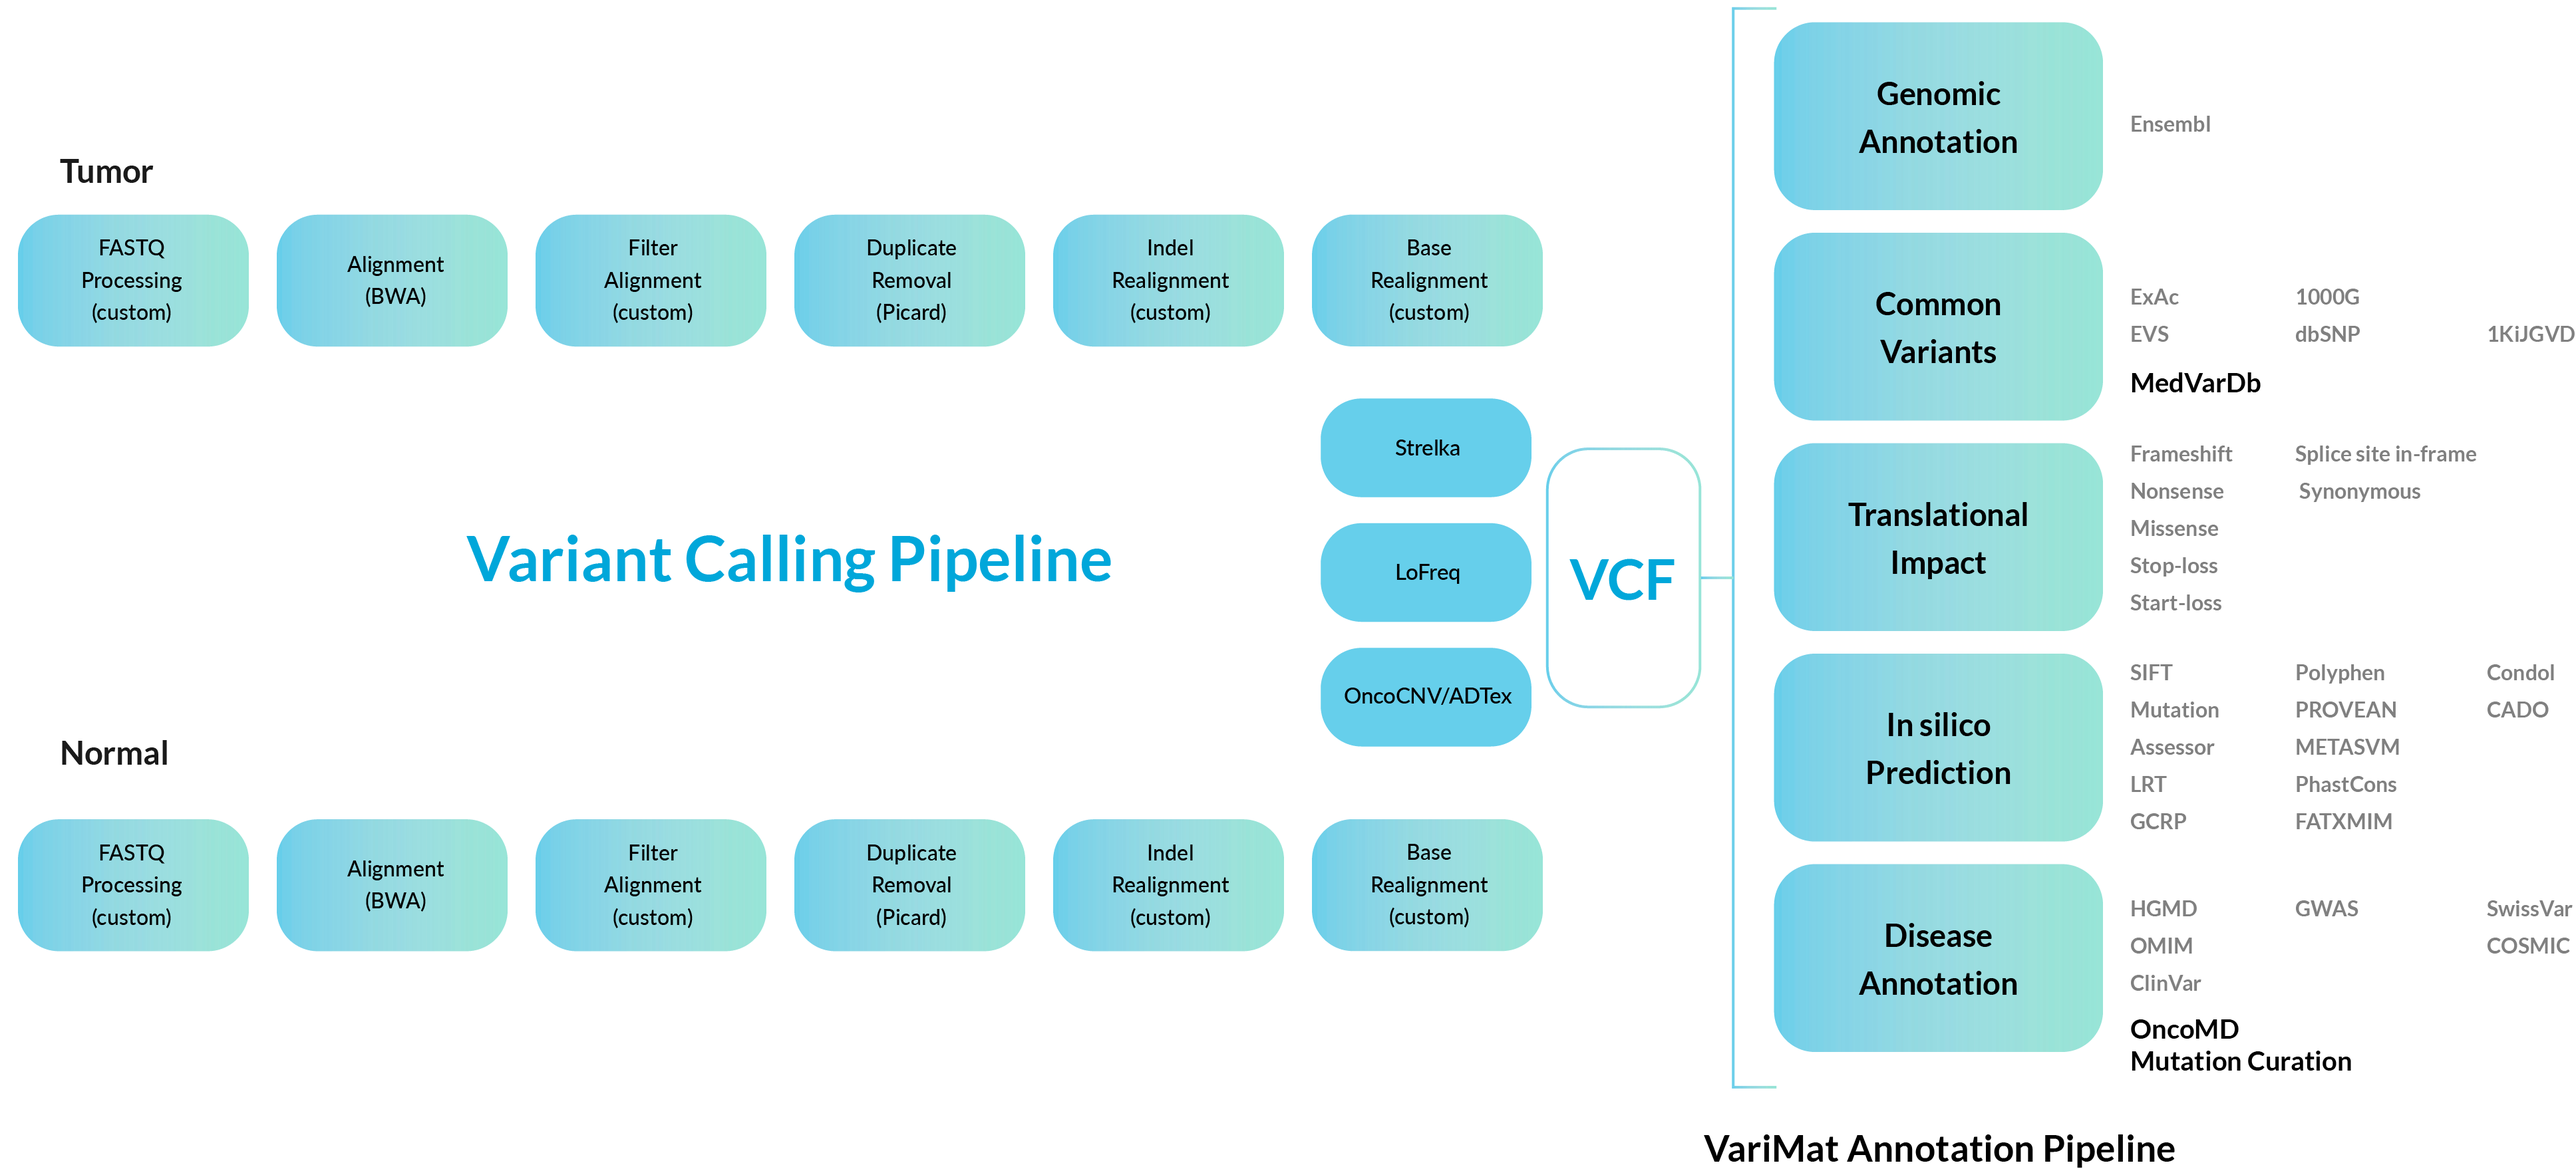
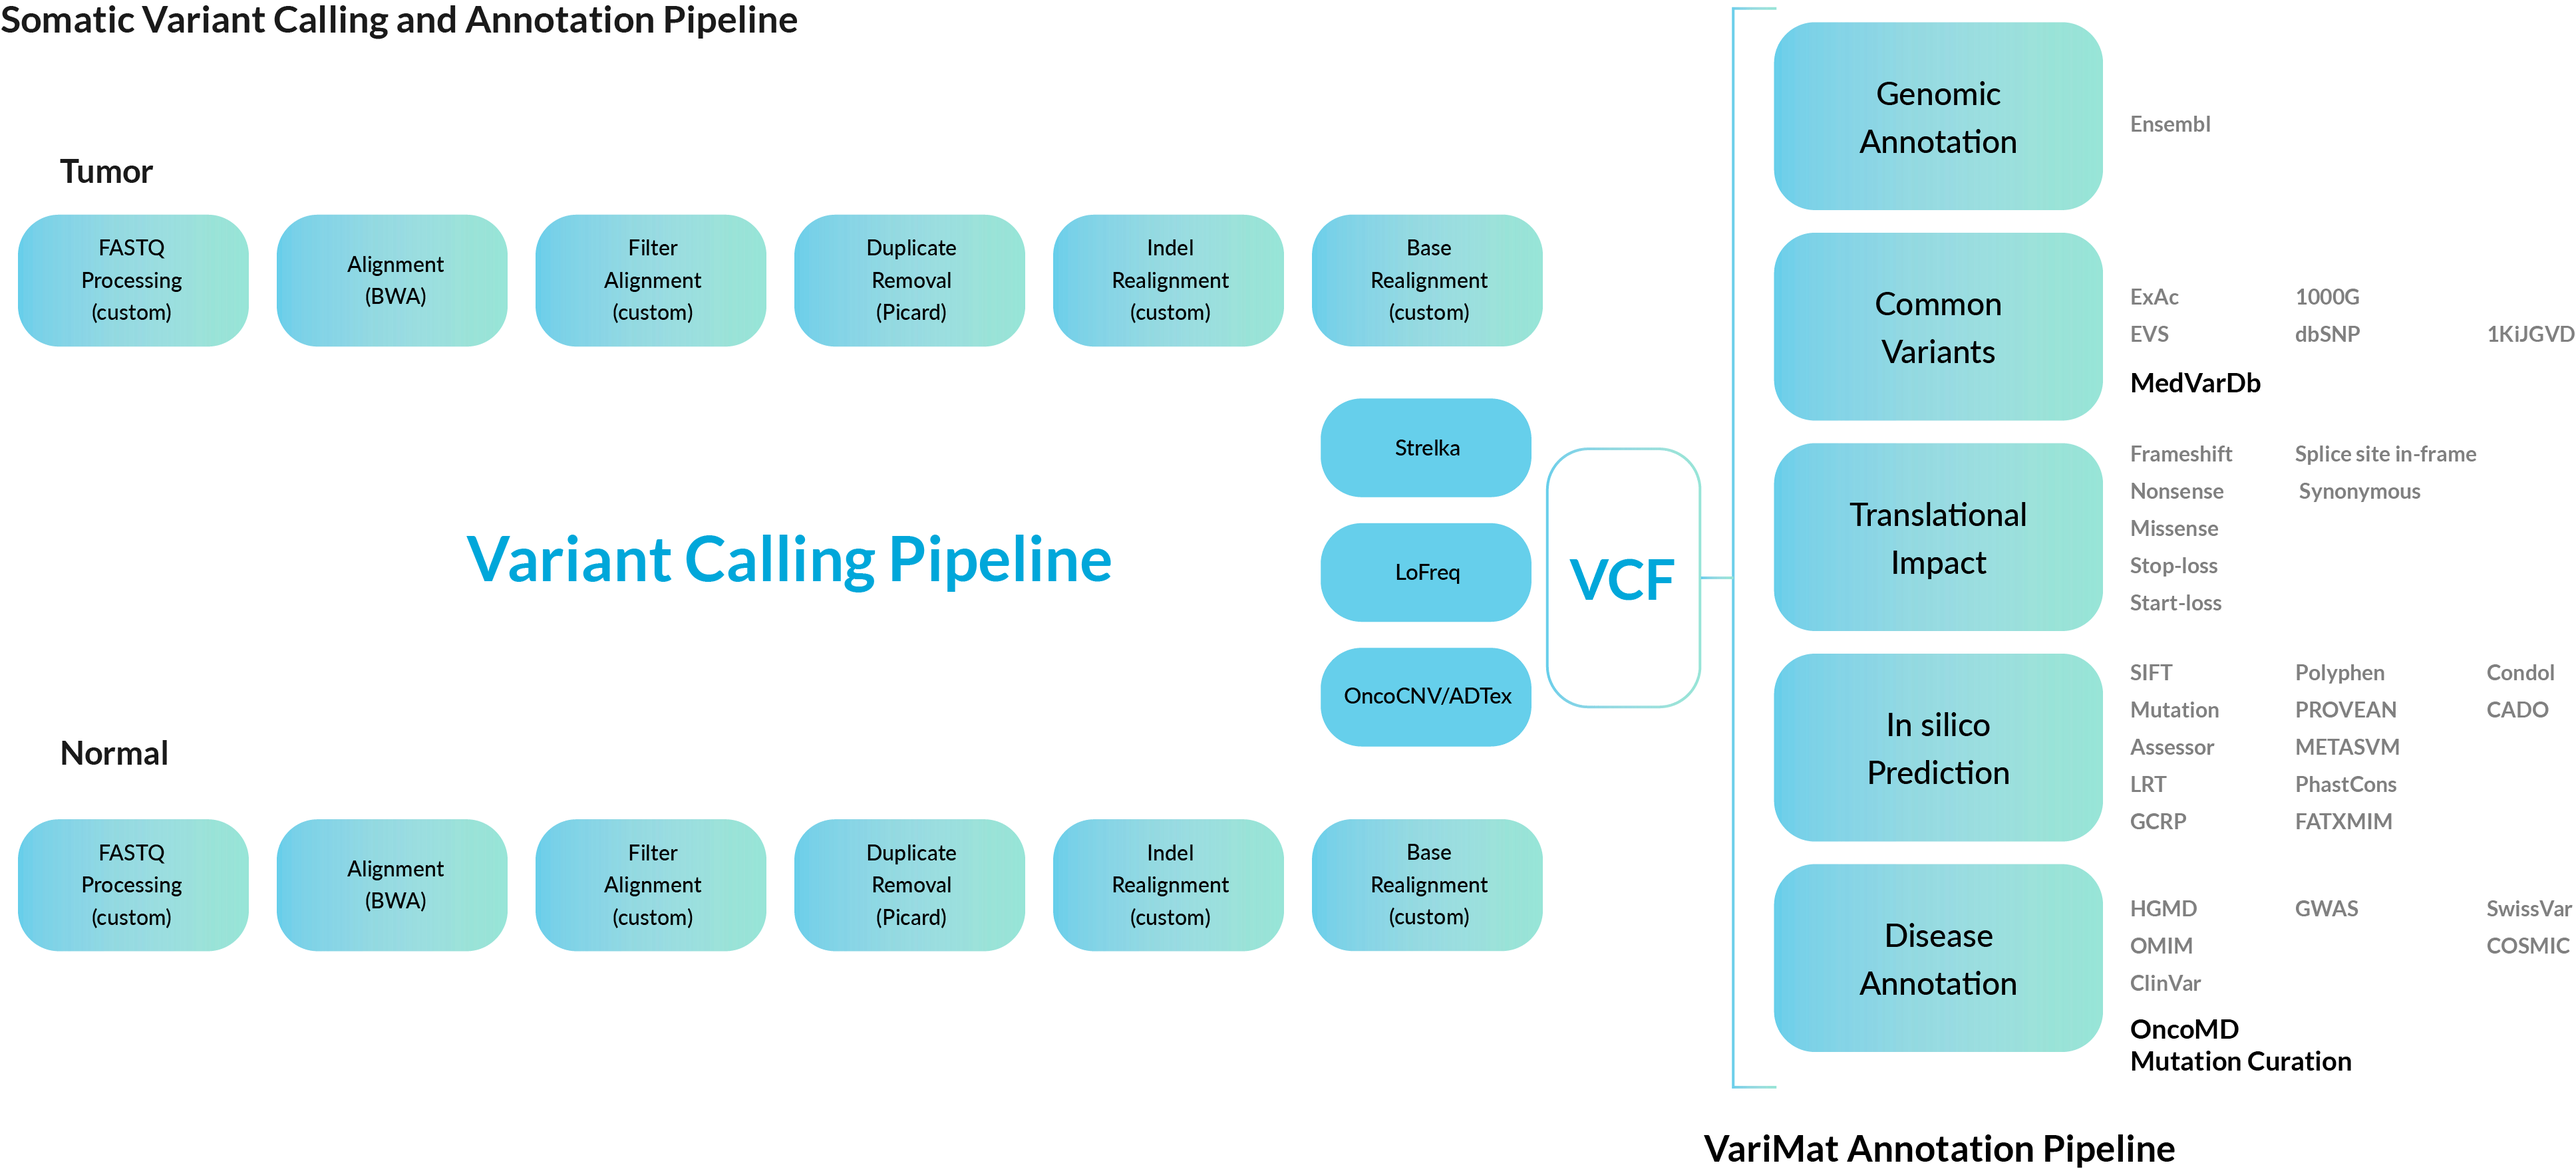
medgenome ngs services

diff --git a/medgenome-project/index.html b/medgenome-project/index.html
@@ -105,7 +105,7 @@
         <span class="tab-arrow tab-arrow-top"></span>
       </div>
       <div class="mdgo-tab-content-wrap ngs-services-content">
-        <p>At MedGenome we offer an end to-end solution for Next-generation sequencing as a service for a wide range of sample types ( DNA, RNA and specialized samples like T&B cells) as shown in Figure 1. We provide The user has flexible options to use our services from  end-to-end or simply request services at any step of the workflow. To learn more about our services click on the tabs in the workflow below.</p>
+        <p>At MedGenome we offer an end to-end solution for Next-generation sequencing as a service for a wide range of sample types ( DNA, RNA and specialized samples like T&B cells) as shown in Figure 1. The user has flexible options to use our services from  end-to-end or simply request services at any step of the workflow. To learn more about our services click on the tabs in the workflow below.</p>
         <div class="ngs-inner-tab-wrap">
           <ul class="ngs-inner-tab-btn">
             <li class="order-2"><a href="#" trgt_link="libraryPrep"><span>Library Preparation</span><span class="down-Arrow"></span></a></li>
@@ -198,7 +198,7 @@
                 <tbody>
                   <tr>
                     <td><span>RNA (whole transcriptome)</span> <span>Transcribed exonic regions</span> <span>Small RNA</span></td>
-                    <td><span>TrueSeq RNA SMARTer Pico V2, TrueSeq Stranded (No Capture probes used)</span><span>TrueSeq RNA Access</span> <span>Trilink (No Capture probes used)</span> <span>NEB (No Capture probes used)</span></td>
+                    <td><span>TrueSeq RNA, SMARTer Pico v2, TrueSeq Stranded (No Capture probes used)</span></td>
                   </tr>
                   <tr>
                     <td>Whole exome (WES)</td>
@@ -214,7 +214,7 @@
                   </tr>
                   <tr>
                     <td>TCR sequencing</td>
-                    <td>ImmunoSeq, SMARTer TCR Profiling</td>
+                    <td>Adaptive immunoSEQ, 10X V(D)J</td>
                   </tr>
                   <tr>
                     <td>Panel sequencing</td>
@@ -345,10 +345,46 @@
             <li class="active"><a href="#">About</a></li><li><a href="qc-reports.html">QC Report</a></li><li><a href="https://www.medgenome.com/ngs-bioinformatics-molecular-biology-services/">Informatics</a></li><li><a href="https://www.medgenome.com/publications/?act=whitepaper">White paper</a></li><li class="requestQuotePopupClick"><a href="#">Place and order</a></li>
           </ul>
         </div>
+            <h3 class="whole-pipelineh">WGS Germline variant calling Workflow</h3>
+            
+            <div class="wgs-workflow">
+              <div class="lightbox-click">
+                <img src="img/wgs-workflow.png" alt="WGS Germline variant calling Workflow">
+              </div>
+
+              <div class="lightbox-target">
+                <div class="lightbox-inner-wrap">
+                  <div class="lightbox-img">
+                    <img src="img/wgs-workflow.png"/>
+                  </div>
+                </div>
+                <span class="lightbox-close"></span>
+              </div>
+            </div>
+
+            <h3 class="whole-pipelineh">Somatic Variant Calling and Annotation Pipeline</h3>
+
+            <div class="somatic-pipeline">
+              <div class="lightbox-click">
+                <img src="img/somatic-variant-pipeline.png" alt="Somatic Variant Calling and Annotation Pipeline">
+              </div>
+
+              <div class="lightbox-target">
+                <div class="lightbox-inner-wrap">
+                  <div class="lightbox-img">
+                    <img src="img/somatic-variant-pipeline.png" alt="Somatic Variant Calling and Annotation Pipeline">
+                  </div>
+                </div>
+                <span class="lightbox-close"></span>
+              </div>
+            </div>
+
+
         <p>Whole Genome and Exome Sequencing using NGS have been widely accepted to speed up and reduce the cost of sequencing genomes for basic research as well as use of genomic data for a wide range of applications : genome wide association studies for complex diseases, variant calling to identify clinically actionable mutations and other specialized areas like identification of mutations that accumulate and give rise of tumor neo-antigens and shared antigens. At MedGenome we routinely perform Whole Genome Sequencing and  Exome Sequencing and Analyses using best practices.</p>
         <div class="medgenome-row">
           <div class="medgenome-col">
             <div class="table-container table-scroll-mob whole-exome-table1">
+              <p>Table 1 : Sample types processed for WGS/WES at MedGenome.</p>
               <table>
                 <thead>
                   <tr>
@@ -384,10 +420,10 @@
                 </tbody>
               </table>
             </div>
-            <p>Figure 1: a) Table of all the sample types processed for WGS/WES at MedGenome</p>
           </div>
           <div class="medgenome-col">
             <div class="table-container table-scroll-mob standardAnlOff">
+              <p>Table 2: Deliverables for analyses of WGS/WES data.</p>
               <table>
                 <thead>
                   <tr>
@@ -419,7 +455,6 @@
                 </tbody>
               </table>
             </div>
-            <p>Figure 1: b) Table shows deliverables for analyses of WGS/WES data</p>
           </div>
         </div>
         
@@ -572,6 +607,22 @@
             <li class="active"><a href="#">About</a></li><li><a href="qc-reports.html">QC Report</a></li><li><a href="https://www.medgenome.com/ngs-bioinformatics-molecular-biology-services/">Informatics</a></li><li><a href="https://www.medgenome.com/publications/?act=whitepaper">White paper</a></li><li class="requestQuotePopupClick"><a href="#">Place and order</a></li>
           </ul>
         </div>
+           <h3 class="whole-pipelineh">Whole-Transcriptome Analysis Pipeline</h3>
+
+            <div class="whole-transcriptome-pipeline">
+              <div class="lightbox-click">
+                <img src="img/whole-transcriptome-pipeline.png" alt="whole transcriptome analysis pipeline">
+              </div>
+
+              <div class="lightbox-target">
+                <div class="lightbox-inner-wrap">
+                  <div class="lightbox-img">
+                    <img src="img/whole-transcriptome-pipeline.png" alt="whole transcriptome analysis pipeline">
+                  </div>
+                </div>
+                <span class="lightbox-close"></span>
+              </div>
+            </div> 
         <p>Next generation sequencing enables gene expression analysis from normal and disease tissues with high-sensitivity. Profiling of coding and non-coding RNAs is important in revealing molecular mechanisms of development and disease. With the several options that exist for gene expression profiling, it is also possible to perform whole transcriptome profiling ranging from a single-cell to thousands of cells in a sample. In addition, current methodologies allow for profiling of transcriptomes from intact RNA and
         RNA degraded due to the storage and isolation conditions (such as FFPE processed tissue blocks, cell-free nucleic acids etc).  At MedGenome we offer solutions For performing gene expression analysis from a wide-range of sample types. Shown in table 1 is a range of sample types that we process for Whole transcriptome profiling.</p>
 
@@ -588,9 +639,9 @@
                 </thead>
                 <tbody>
                   <tr>
-                    <td>RNA Sequencing</td>
+                    <td>RNA (whole transcriptome)</td>
                     <td><span>Recommended: 1 μg (RIN>8)</span> <span>Minimum: 50 ng (RIN < 5)</span> <span>Single-cell solutions available</span></td>
-                    <td><span>TrueSeq RNA SMARTer Pico v2, TrueSeq Stranded (No Capture probes used)</span> <span>TrueSeq RNA Access</span> <span>Trilink (No Capture probes used)</span> <span>NEB (No Capture probes used)</span></td>
+                    <td><span>TrueSeq RNA, SMARTer Pico v2, TrueSeq Stranded (No Capture probes used)</span></td>
                   </tr>
                 </tbody>
               </table>
@@ -679,7 +730,7 @@
         </div>
         <p>T-cells are the core components of our adaptive immune system. Once activated, they can directly kill cells that are foreign (cytolytic T-cells) or perform helper function (helper T-cells) to activate B-cells to make antibodies against foreign antigen. The activation of T-cells involve recognition of MHC-peptide complex by the T-cell receptors (TCR). Humans carry >10<sup>9</sup> T-cells, each expressing a unique TCR. This highly diverse repertoire of T-cells has the ability to recognize peptides originating from foreign elements such as invading pathogens and cancer cells. Each TCR recognize peptides in complex with MHC proteins presented on the surface of antigen presenting cells. Productive T-cell activation results in the clonal expansion of a specific T-cell and this expansion can be accurately determined by TCR sequencing.</p>
 
-        <p>TCR profiling holds great potential not only for understanding the mechanisms of development of the normal immune response, but also in providing insights into disease mechanisms and development of new therapeutics and treatment modalities in infectious diseases, autoimmunity and in immuno-oncology 1. However identification of all potential clonotypes in a diverse repertoire of TCRs requires sensitive methods of detection 2,3. Next-generation sequencing (NGS) technologies have recently enabled accurate detection of TCRs, and in combination with other assays allow for the assessment of the TCR repertoire in patients- which in turn is a proxy for patient prognosis and response. At MedGenome , we provide three different NGS based methods of profiling the TCR repertoire : immunoSEQ™ assay (Adaptive Biotechnologies), SMARTer® TCR Profiling Kit (Takara Bio USA Inc), and Single-cell V(D)J Immune Profiling solution (10X™ Genomics Inc) respectively.  To learn more about the different applications and sample data generated using TCR Seq at MedGenome read the <a class="highlightonhov" href="https://www.medgenome.com/publications/?act=whitepaper">white paper.</a></p>
+        <p>TCR profiling holds great potential not only for understanding the mechanisms of development of the normal immune response, but also in providing insights into disease mechanisms and development of new therapeutics and treatment modalities in infectious diseases, autoimmunity and in immuno-oncology. However identification of all potential clonotypes in a diverse repertoire of TCRs requires sensitive methods of detection. Next-generation sequencing (NGS) technologies have recently enabled accurate detection of TCRs, and in combination with other assays allow for the assessment of the TCR repertoire in patients- which in turn is a proxy for patient prognosis and response. At MedGenome , we provide three different NGS based methods of profiling the TCR repertoire : immunoSEQ™ assay (Adaptive Biotechnologies), SMARTer<sup>®</sup> TCR Profiling Kit (Takara Bio USA Inc), and Single-cell V(D)J Immune Profiling solution (10X™ Genomics Inc) respectively.  To learn more about the different applications and sample data generated using TCR Seq at MedGenome read the <a class="highlightonhov" href="https://www.medgenome.com/publications/?act=whitepaper">white paper.</a></p>
 
         <div class="major-application-tcr-row">
           <div class="major-app-heading">
@@ -724,7 +775,7 @@
               <tr>
                 <td>SMARTer TCR profiling kit (Takara Bio USA)</td>
                 <td>Isolated cells or RNA</td>
-                <td>10 ng-3 ng/50-10,000 cells(Human, Mouse)</td>
+                <td>10 ng-3 ng/50-10,000 cells (Human, Mouse)</td>
                 <td>MiXCR</td>
                 <td>CDR3, V(D)J sequences α/β pairing(from SC Kit)</td>
               </tr>

diff --git a/medgenome-project/css/main.css b/medgenome-project/css/main.css
@@ -918,12 +918,14 @@ box-shadow: 0px -2px 35px 0px rgba(0,0,0, 0.2);
 }
 .table-container.whole-exome-table1 tbody td:nth-child(1){
   width: 20%;
+  background-color:#fff;
 } 
 .ngs-services-workflow h3{
   margin: 30px 0 10px;
   font-size: 18px;
   color: #000;
   text-align: center;
+  font-weight:700;
 }
 .ngs-workflow-text p{
   margin:0;
@@ -931,6 +933,13 @@ box-shadow: 0px -2px 35px 0px rgba(0,0,0, 0.2);
   color:#252525;
   text-align: left;
   font-weight:400;
+}
+.whole-pipelineh{
+    margin: 40px 0 20px;
+    font-size: 18px;
+    color: #000;
+    text-align: center;
+    font-weight: 700;
 }
 
 
